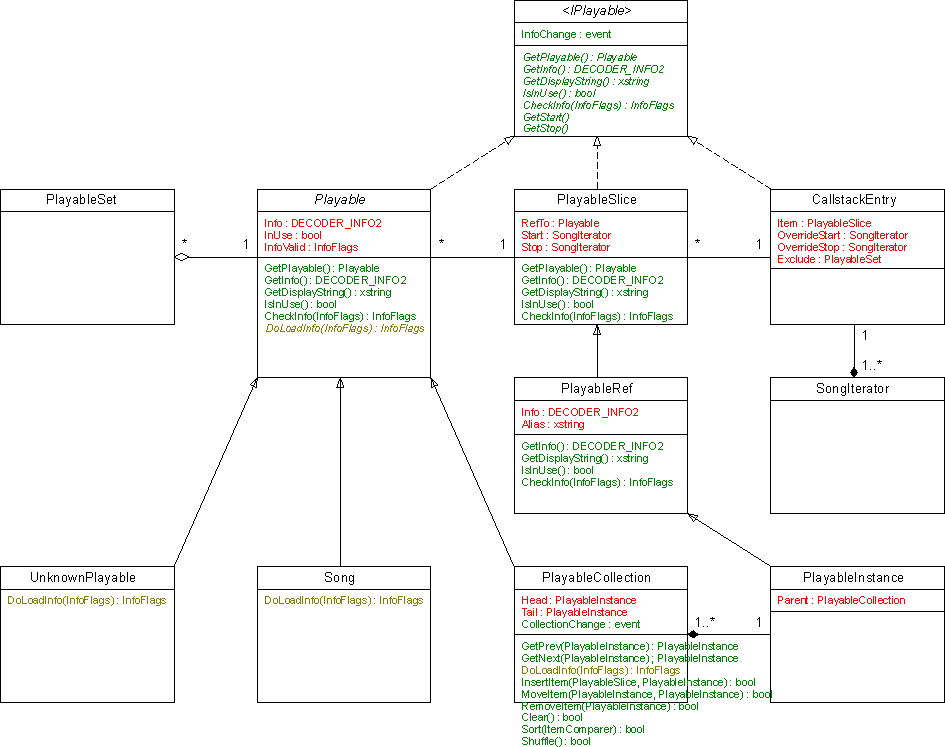
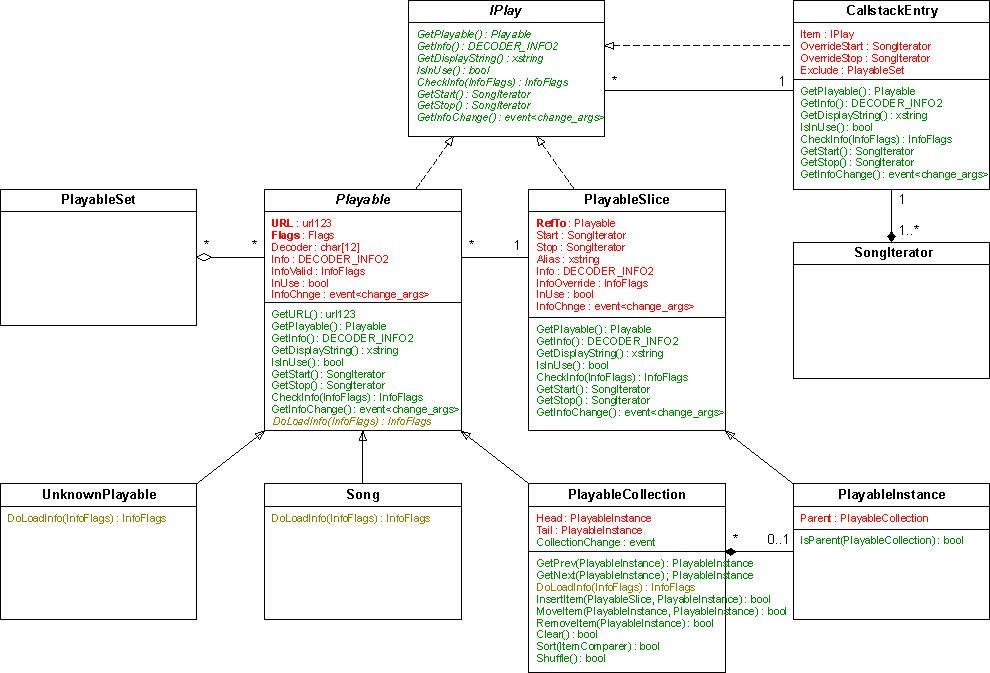
Removed PlayableRef

diff --git a/doc/developer/playable.html b/doc/developer/playable.html
@@ -8,18 +8,17 @@
 
 <h2>PM123 Playable object handling</h2>
 <h3>Class Tree</h3>
-<p><img src="images/playableclasses.png" width="945" height="747"></p>
+<p><img src="images/playableclasses.png" width="990" height="673"></p>
 <h3>Use cases</h3>
 <p>The following table shows the properties accessed per use case and the interface used for this purpuse in the coding. In the second section the table shows the supported properties and interfaces by class/interface.</p>
 <p>R - read access<br>
   W - write access<br>
-F - followers allowed (change notifications)<br>
+F - observer<br>
 X - access<br>
 Lowercase letters indicate protected access.</p>
 <table border="1" cellspacing="0" cellpadding="3">
   <tr>
   <th>Task / Property</th>
-  <th>Decoder</th>
   <th>DisplayName</th>
   <th>Alias</th>
   <th>Status</th>
@@ -32,27 +31,24 @@ Lowercase letters indicate protected access.</p>
   <td>Loaded root object</td>
   <td>&nbsp;</td>
   <td>&nbsp;</td>
-  <td>&nbsp;</td>
   <td>R</td>
-  <td>RF</td>
+  <td>RO</td>
   <td>R</td>
   <td>R?</td>
   <td>X</td>
   <td>IPlay, PlayableCollection?</td>
   </tr><tr>
   <td>currently playing</td>
-  <td>&nbsp;</td>
   <td>R</td>
   <td>&nbsp;</td>
   <td>&nbsp;</td>
-  <td>RF</td>
+  <td>RO</td>
   <td>&nbsp;</td>
   <td>&nbsp;</td>
   <td>X</td>
   <td>IPlay</td>
   </tr><tr>
   <td>Decode an object</td>
-  <td>R</td>
   <td>&nbsp;</td>
   <td>&nbsp;</td>
   <td>&nbsp;</td>
@@ -65,32 +61,29 @@ Lowercase letters indicate protected access.</p>
   <td>Enumerate Songs, call stack entry</td>
   <td>&nbsp;</td>
   <td>&nbsp;</td>
-  <td>&nbsp;</td>
   <td>R</td>
   <td>&nbsp;</td>
   <td>R</td>
-  <td>RF?</td>
+  <td>RO?</td>
   <td>X</td>
   <td>IPlay, PlayableCollection?</td>
   </tr><tr>
   <td>Show/edit a playlist</td>
   <td>&nbsp;</td>
   <td>&nbsp;</td>
+  <td>RO</td>
   <td>&nbsp;</td>
-  <td>RF</td>
   <td>&nbsp;</td>
-  <td>&nbsp;</td>
-  <td>RWF</td>
+  <td>RWO</td>
   <td>X</td>
   <td>PlayableCollection</td>
   </tr><tr>
   <td>Show/edit a playlist (items)</td>
-  <td>RF</td>
-  <td>RF</td>
-  <td>RWF</td>
-  <td>RF</td>
-  <td>RF</td>
-  <td>RWF</td>
+  <td>RO</td>
+  <td>W</td>
+  <td>RO</td>
+  <td>RO</td>
+  <td>RWO</td>
   <td>&nbsp;</td>
   <td>X</td>
   <td>PlayableInstance, Playable</td>
@@ -101,13 +94,11 @@ Lowercase letters indicate protected access.</p>
   <td>&nbsp;</td>
   <td>&nbsp;</td>
   <td>&nbsp;</td>
-  <td>&nbsp;</td>
   <td>R</td>
   <td>&nbsp;</td>
   <td>PlayableCollection</td>
   </tr><tr>
   <td>Save a playlist (items)</td>
-  <td>&nbsp;</td>
   <td>&nbsp;</td>
   <td>R</td>
   <td>&nbsp;</td>
@@ -123,13 +114,11 @@ Lowercase letters indicate protected access.</p>
   <td>&nbsp;</td>
   <td>&nbsp;</td>
   <td>&nbsp;</td>
-  <td>&nbsp;</td>
   <td>RW</td>
   <td>X</td>
   <td>PlayableCollection</td>
   </tr><tr>
   <td>Remote playlist manipulation (items)</td>
-  <td>&nbsp;</td>
   <td>&nbsp;</td>
   <td>RW</td>
   <td>&nbsp;</td>
@@ -141,7 +130,6 @@ Lowercase letters indicate protected access.</p>
   </tr><tr>
   <td>Playlist item properties</td>
   <td>&nbsp;</td>
-  <td>&nbsp;</td>
   <td>RW</td>
   <td>&nbsp;</td>
   <td>RW</td>
@@ -150,19 +138,37 @@ Lowercase letters indicate protected access.</p>
   <td>X</td>
   <td>PlayableInstance</td>
   </tr><tr>
+  <td>Drag &amp; drop source</td>
+  <td>&nbsp;</td>
+  <td>R</td>
+  <td>&nbsp;</td>
+  <td>R</td>
+  <td>R</td>
+  <td>&nbsp;</td>
+  <td>X</td>
+  <td>PlayableInstance</td>
+  </tr><tr>
+  <td>Add a playlist item</td>
+  <td>&nbsp;</td>
+  <td>R</td>
+  <td>&nbsp;</td>
+  <td>R</td>
+  <td>R</td>
+  <td>&nbsp;</td>
+  <td>&nbsp;</td>
+  <td>PlayableInstance</td>
+  </tr><tr>
   <td>Infodialog</td>
-  <td>RF</td>
   <td>&nbsp;</td>
   <td>&nbsp;</td>
-  <td>RF</td>
-  <td>RF</td>
+  <td>RO</td>
+  <td>RO</td>
   <td>&nbsp;</td>
   <td>&nbsp;</td>
   <td>X</td>
   <td>Playable</td>
   </tr><tr>
   <td>Add a bookmark</td>
-  <td>&nbsp;</td>
   <td>&nbsp;</td>
   <td>R</td>
   <td>&nbsp;</td>
@@ -173,10 +179,9 @@ Lowercase letters indicate protected access.</p>
   <td>PlayableSlice</td>
   </tr><tr>
   <td>Bookmark/MRU menu display</td>
-  <td>&nbsp;</td>
   <td>R</td>
   <td>&nbsp;</td>
-  <td>RF</td>
+  <td>RO</td>
   <td>&nbsp;</td>
   <td>&nbsp;</td>
   <td>R</td>
@@ -184,7 +189,6 @@ Lowercase letters indicate protected access.</p>
   <td>PlayableCollection</td>
   </tr><tr>
   <td>Add MRU</td>
-  <td>&nbsp;</td>
   <td>&nbsp;</td>
   <td>R</td>
   <td>&nbsp;</td>
@@ -196,7 +200,6 @@ Lowercase letters indicate protected access.</p>
   </tr><tr>
   <td>Loading multiple items into PM123</td>
   <td>&nbsp;</td>
-  <td>&nbsp;</td>
   <td>R</td>
   <td>&nbsp;</td>
   <td>&nbsp;</td>
@@ -206,7 +209,6 @@ Lowercase letters indicate protected access.</p>
   <td>PlayableSlice</td>
   </tr><tr>
   <th>Class / Property</th>
-  <th>Decoder</th>
   <th>DisplayName</th>
   <th>Alias</th>
   <th>Status</th>
@@ -217,56 +219,51 @@ Lowercase letters indicate protected access.</p>
   <th>Implemented interface</th>
   </tr><tr>
   <td>Playable</td>
-  <td>RwF</td>
-  <td>RF</td>
+  <td>RO</td>
   <td>&nbsp;</td>
-  <td>RwF</td>
-  <td>RwF</td>
+  <td>RwO</td>
+  <td>RwO</td>
   <td>&nbsp;</td>
   <td>&nbsp;</td>
   <td>X</td>
   <td>&nbsp;</td>
   </tr><tr>
   <td>PlayableCollection</td>
-  <td>RwF</td>
-  <td>RF</td>
+  <td>RO</td>
   <td>&nbsp;</td>
-  <td>RwF</td>
-  <td>RwF</td>
+  <td>RwO</td>
+  <td>RwO</td>
   <td>&nbsp;</td>
-  <td>RWF</td>
+  <td>RWO</td>
   <td>X</td>
   <td>Playable</td>
   </tr><tr>
   <td>IPlay</td>
-  <td>RF</td>
-  <td>RF</td>
+  <td>RO</td>
   <td>&nbsp;</td>
   <td>&nbsp;</td>
-  <td>RF</td>
-  <td>RF</td>
+  <td>RO</td>
+  <td>RO</td>
   <td>&nbsp;</td>
   <td>X</td>
   <td>&nbsp;</td>
   </tr><tr>
   <td>PlayableSlice</td>
+  <td>RO</td>
+  <td>RWO</td>
   <td>&nbsp;</td>
-  <td>RF</td>
-  <td>RWF</td>
-  <td>&nbsp;</td>
-  <td>RwF</td>
-  <td>RWF</td>
+  <td>RwO</td>
+  <td>RWO</td>
   <td>&nbsp;</td>
   <td>X</td>
   <td>IPlay</td>
   </tr><tr>
   <td>PlayableInstance</td>
-  <td>RF</td>
-  <td>RF</td>
-  <td>RWF</td>
-  <td>RwF</td>
-  <td>RWF</td>
-  <td>RWF</td>
+  <td>RO</td>
+  <td>RWO</td>
+  <td>RwO</td>
+  <td>RWO</td>
+  <td>RWO</td>
   <td>&nbsp;</td>
   <td>X</td>
   <td>PlayableSlice, IPlay</td>
